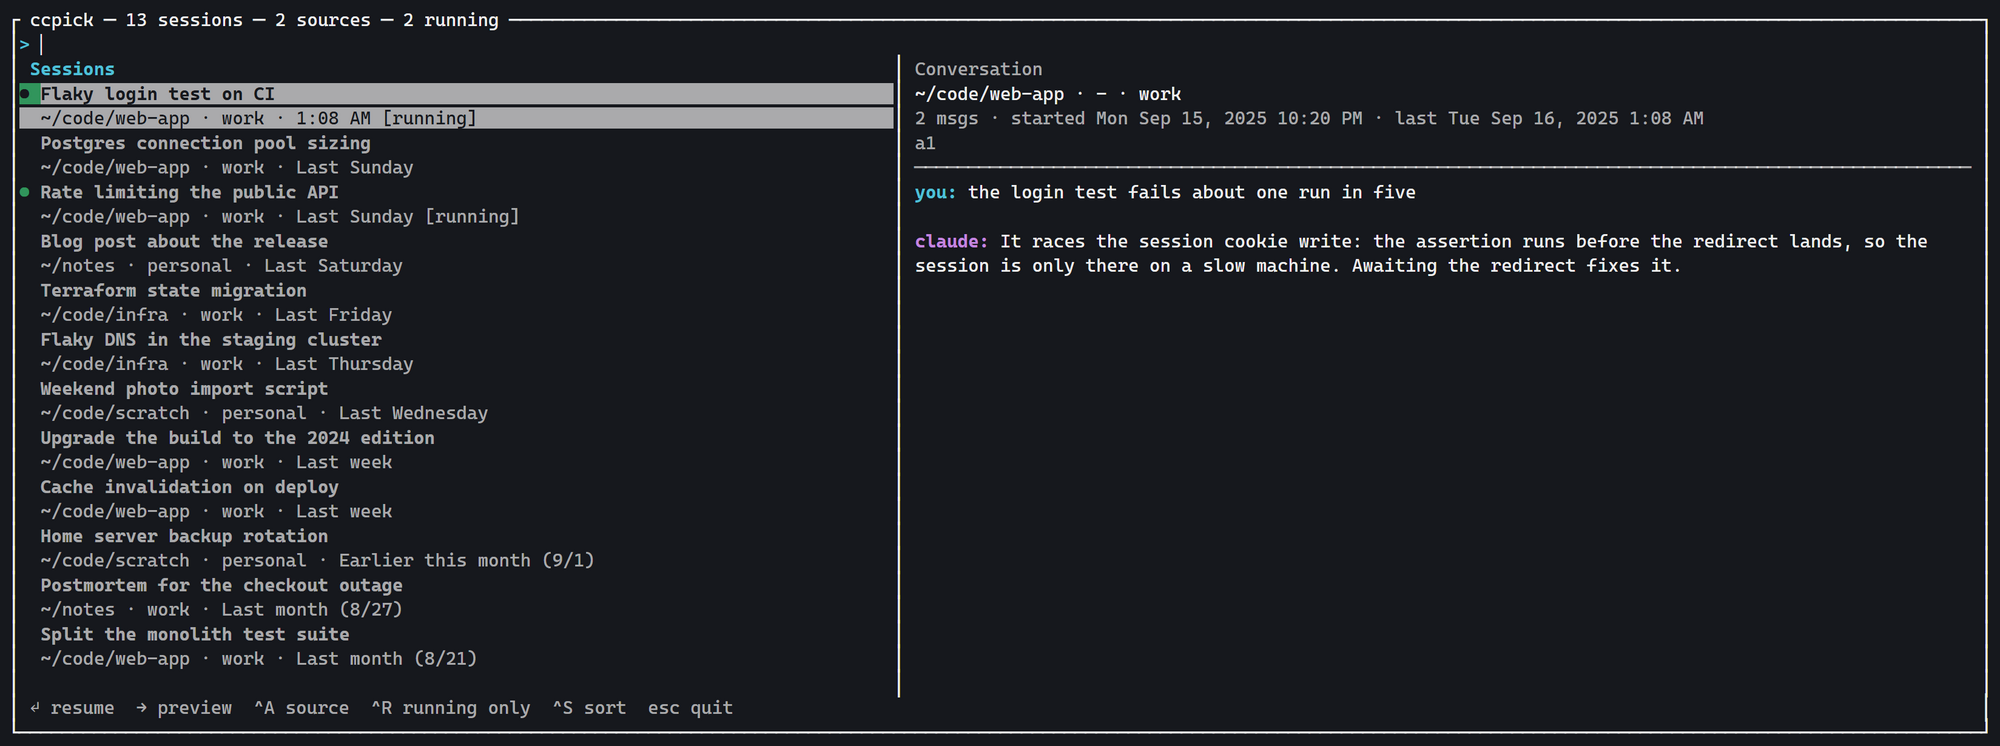
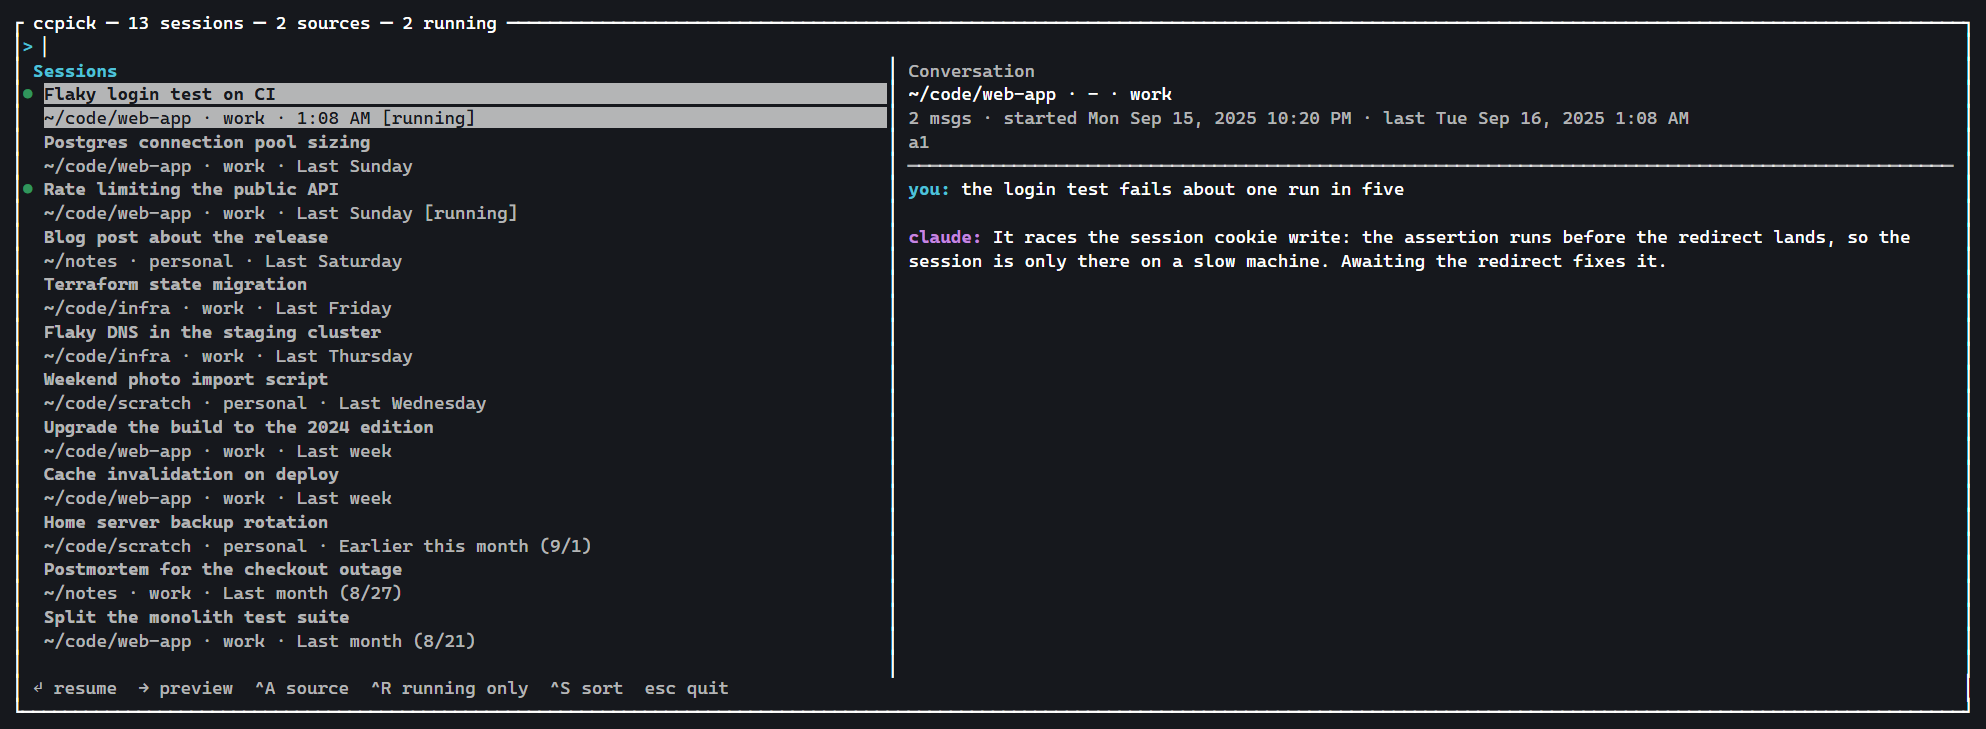
ui: start the selection band after the running marker
The list's highlight style covered the whole row, including the two columns
holding the green running dot, which swallowed it into the band. The
selection is now painted onto the row's own spans and padded out to the
pane's edge, so it runs from column 2 to the right-hand border and leaves
the marker on the background.

Also regenerate the screenshot: it was rendered at 3600px and scaled down to
2000, which blended every glyph stroke into the background and left the
whole screen looking grey. It is now rendered at its final size, with the
plain foreground as true white.

Changed region(s): [[0.0, 0.0, 0.999, 0.9959], [0.4371, 0.3018, 0.9678, 0.3923]]

diff --git a/src/ui/render.rs b/src/ui/render.rs
@@ -14,7 +14,7 @@ use ratatui::widgets::{
 const LIST_HELP: &str = " ↵ resume  → preview  ^A source  ^R running only  ^S sort  esc quit";
 const PREVIEW_HELP: &str = " ← sessions  ↑↓ line  PgUp/PgDn page  Home/End  ↵ resume  esc quit";
 
-pub fn highlight(text: &str, query: &str, base: Style) -> Vec<Span<'static>> {
+pub fn highlight_spans(text: &str, query: &str, base: Style) -> Vec<Span<'static>> {
     let needle = query.trim().to_ascii_lowercase();
     if needle.is_empty() {
         return vec![Span::styled(text.to_string(), base)];
@@ -181,56 +181,6 @@ fn draw_dialog(frame: &mut Frame, app: &App) {
 fn draw_list(frame: &mut Frame, app: &mut App, area: Rect, now_ms: i64) {
     let catalog = app.catalog.clone();
     let rows = app.rows.clone();
-    let items: Vec<ListItem> = rows
-        .iter()
-        .map(|row| match row {
-            Row::Divider => ListItem::new(Line::from("── in conversation text ──").dim()),
-            Row::Session { idx, snippet } => {
-                let idx = *idx;
-                let s = &catalog.sessions[idx];
-                let source_idx = app.launch_source(idx);
-                let source = &catalog.sources[source_idx];
-                let marker = if s.live.is_some() { "● " } else { "  " };
-                let title = Line::from(vec![
-                    Span::styled(marker, Style::new().fg(Color::Green)),
-                    Span::styled(
-                        s.meta.title.clone(),
-                        Style::new().add_modifier(Modifier::BOLD),
-                    ),
-                ]);
-                let second = match snippet {
-                    Some(text) => Line::from(highlight(
-                        &format!("  {text}"),
-                        &app.query,
-                        Style::new().dim(),
-                    )),
-                    None => {
-                        let cwd = s
-                            .meta
-                            .cwd
-                            .as_deref()
-                            .map(|p| shorten_home_in(p, &source.env_home, &source.env))
-                            .unwrap_or_else(|| "?".into());
-                        let mut detail = format!(
-                            "  {cwd} · {} · {}",
-                            source.name,
-                            friendly(now_ms, s.meta.last_ts)
-                        );
-                        if s.live.is_some() {
-                            detail.push_str(" [running]");
-                        }
-                        Line::from(detail).dim()
-                    }
-                };
-                let item = ListItem::new(vec![title, second]);
-                if app.cwd_missing(idx, source_idx) {
-                    item.style(Style::new().add_modifier(Modifier::DIM))
-                } else {
-                    item
-                }
-            }
-        })
-        .collect();
     let block = Block::default().borders(Borders::RIGHT);
     let inner = block.inner(area);
     frame.render_widget(block, area);
@@ -241,17 +191,88 @@ fn draw_list(frame: &mut Frame, app: &mut App, area: Rect, now_ms: i64) {
         title_area,
     );
 
+    // The selection is drawn onto the row's own spans rather than by the list's highlight
+    // style, so it starts after the running marker and still runs to the pane's edge.
     let highlight = match app.focus {
         Focus::List => Style::new().add_modifier(Modifier::REVERSED),
         Focus::Preview => Style::new().bg(Color::DarkGray),
     };
-    let list = List::new(items).highlight_style(highlight);
+    let selected_row = app.selected_session().map(|_| app.selected);
+    let items: Vec<ListItem> = rows
+        .iter()
+        .enumerate()
+        .map(|(row_idx, row)| match row {
+            Row::Divider => ListItem::new(Line::from("── in conversation text ──").dim()),
+            Row::Session { idx, snippet } => {
+                let idx = *idx;
+                let s = &catalog.sessions[idx];
+                let source_idx = app.launch_source(idx);
+                let source = &catalog.sources[source_idx];
+                let selected = Some(row_idx) == selected_row;
+                let sel = |style: Style| {
+                    if selected {
+                        style.patch(highlight)
+                    } else {
+                        style
+                    }
+                };
+                // Fills the rest of the row so the selection is a solid band, without
+                // touching the two marker columns in front of it.
+                let fill = |mut line: Line<'static>| {
+                    if selected {
+                        let pad = (list_area.width as usize).saturating_sub(line.width());
+                        line.push_span(Span::styled(" ".repeat(pad), highlight));
+                    }
+                    line
+                };
+                let marker = if s.live.is_some() { "● " } else { "  " };
+                let title = Line::from(vec![
+                    Span::styled(marker, Style::new().fg(Color::Green)),
+                    Span::styled(
+                        s.meta.title.clone(),
+                        sel(Style::new().add_modifier(Modifier::BOLD)),
+                    ),
+                ]);
+                // The second line is indented to sit under the title, past the marker.
+                let mut spans = vec![Span::raw("  ")];
+                match snippet {
+                    Some(text) => spans.extend(
+                        highlight_spans(text, &app.query, Style::new().dim())
+                            .into_iter()
+                            .map(|span| Span::styled(span.content, sel(span.style))),
+                    ),
+                    None => {
+                        let cwd = s
+                            .meta
+                            .cwd
+                            .as_deref()
+                            .map(|p| shorten_home_in(p, &source.env_home, &source.env))
+                            .unwrap_or_else(|| "?".into());
+                        let mut detail = format!(
+                            "{cwd} · {} · {}",
+                            source.name,
+                            friendly(now_ms, s.meta.last_ts)
+                        );
+                        if s.live.is_some() {
+                            detail.push_str(" [running]");
+                        }
+                        spans.push(Span::styled(detail, sel(Style::new().dim())));
+                    }
+                }
+                let item = ListItem::new(vec![fill(title), fill(Line::from(spans))]);
+                if app.cwd_missing(idx, source_idx) {
+                    item.style(Style::new().add_modifier(Modifier::DIM))
+                } else {
+                    item
+                }
+            }
+        })
+        .collect();
     let mut state =
         ListState::default().with_selected(app.selected_session().map(|_| app.selected));
-    frame.render_stateful_widget(list, list_area, &mut state);
+    frame.render_stateful_widget(List::new(items), list_area, &mut state);
 }
 
-/// A pane title: bright when its pane has focus, dimmed otherwise.
 fn pane_title(text: &str, focused: bool) -> Line<'static> {
     let style = if focused {
         Style::new().fg(Color::Cyan).add_modifier(Modifier::BOLD)
@@ -467,7 +488,7 @@ fn message_lines(agent: &str, query: &str, message: &Message) -> Vec<Line<'stati
                 Style::new().fg(color).add_modifier(Modifier::BOLD),
             ));
         }
-        spans.extend(highlight(text_line, query, Style::new()));
+        spans.extend(highlight_spans(text_line, query, Style::new()));
         lines.push(Line::from(spans));
     }
     lines.push(Line::from(""));
@@ -515,10 +536,10 @@ mod tests {
 
     #[test]
     fn highlight_splits_matches() {
-        let spans = highlight("Fix DOCKER now", "docker", Style::new());
+        let spans = highlight_spans("Fix DOCKER now", "docker", Style::new());
         let parts: Vec<&str> = spans.iter().map(|s| s.content.as_ref()).collect();
         assert_eq!(parts, vec!["Fix ", "DOCKER", " now"]);
-        assert_eq!(highlight("abc", "", Style::new()).len(), 1);
+        assert_eq!(highlight_spans("abc", "", Style::new()).len(), 1);
     }
 
     fn msg(text: &str) -> Message {
@@ -619,6 +640,20 @@ mod tests {
         let cell = &buffer[find(&buffer, "Docker build cache")];
         assert!(!cell.modifier.contains(Modifier::REVERSED));
         assert_eq!(cell.bg, Color::DarkGray);
+    }
+
+    #[test]
+    fn the_selection_starts_after_the_running_marker_and_runs_to_the_edge() {
+        let mut app = App::new(Arc::new(fake_catalog()), "");
+        let buffer = draw_to(&mut app, 100, 30);
+        let (x, y) = find(&buffer, "Docker build cache");
+        assert!(buffer[(x, y)].modifier.contains(Modifier::REVERSED));
+        // The running marker sits in the two columns before the title.
+        assert!(!buffer[(x - 1, y)].modifier.contains(Modifier::REVERSED));
+        assert!(!buffer[(x - 2, y)].modifier.contains(Modifier::REVERSED));
+        // The band runs on past the title to the pane's edge.
+        let end = x + "Docker build cache".chars().count() as u16;
+        assert!(buffer[(end, y)].modifier.contains(Modifier::REVERSED));
     }
 
     #[test]
@@ -853,7 +888,7 @@ mod readme_shot {
         match c {
             // Titles carry no colour of their own, so Reset is the terminal's plain
             // foreground: near-white, not grey.
-            Color::Reset => if fg { "#f0f0f0" } else { "#16181d" }.into(),
+            Color::Reset => if fg { "#ffffff" } else { "#16181d" }.into(),
             Color::Black => "#1b1d23".into(),
             Color::Red | Color::LightRed => "#e06c75".into(),
             Color::Green | Color::LightGreen => "#3fd07b".into(),
@@ -1060,7 +1095,7 @@ lands, so the session is only there on a slow machine. Awaiting the redirect fix
         let html = format!(
             "<!doctype html><meta charset=utf-8><style>\
 html,body{{margin:0;background:#16181d}}\
-pre{{margin:0;padding:18px 20px;font:15px/1.35 'Cascadia Mono','Consolas',monospace;\
+pre{{margin:0;padding:11px 12px;font:9px/1.32 'Cascadia Mono','Consolas',monospace;\
 background:#16181d;color:#d6d6d6;display:inline-block;white-space:pre}}\
 </style><pre>{body}</pre>"
         );
